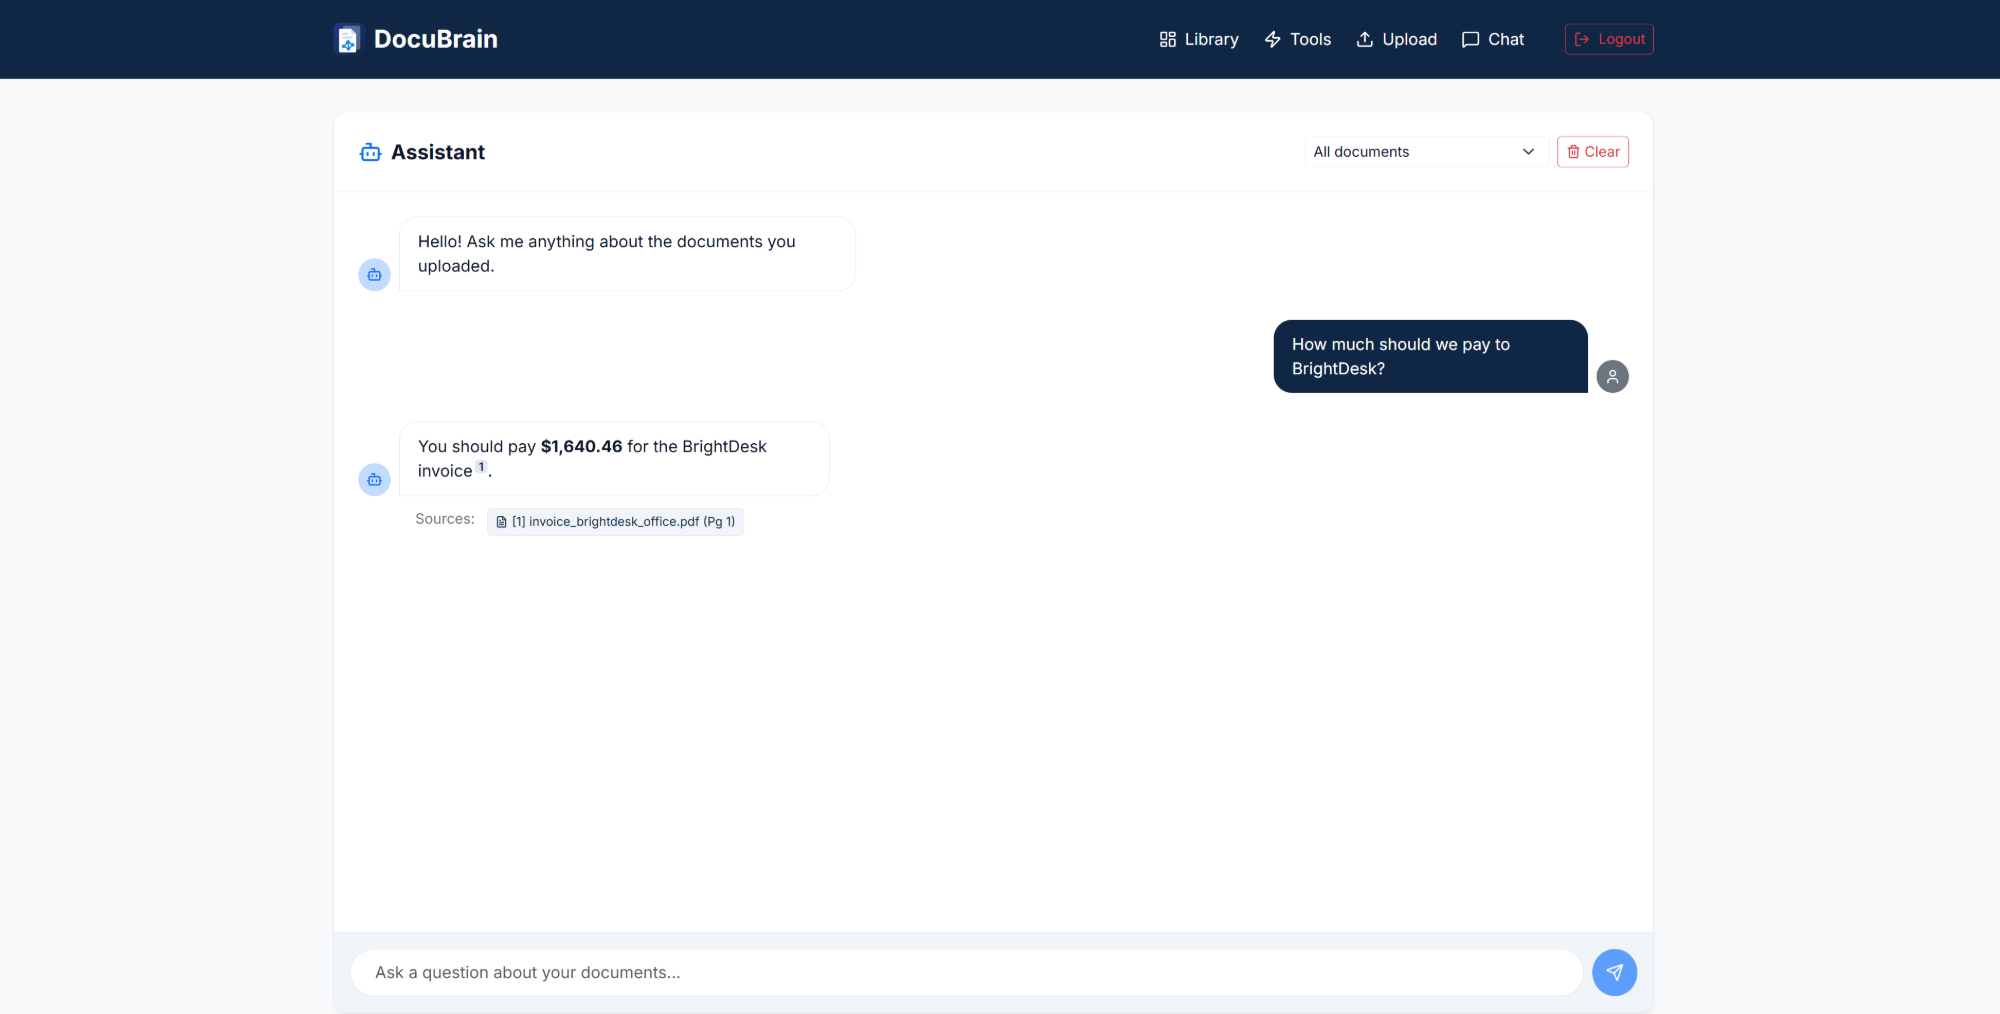
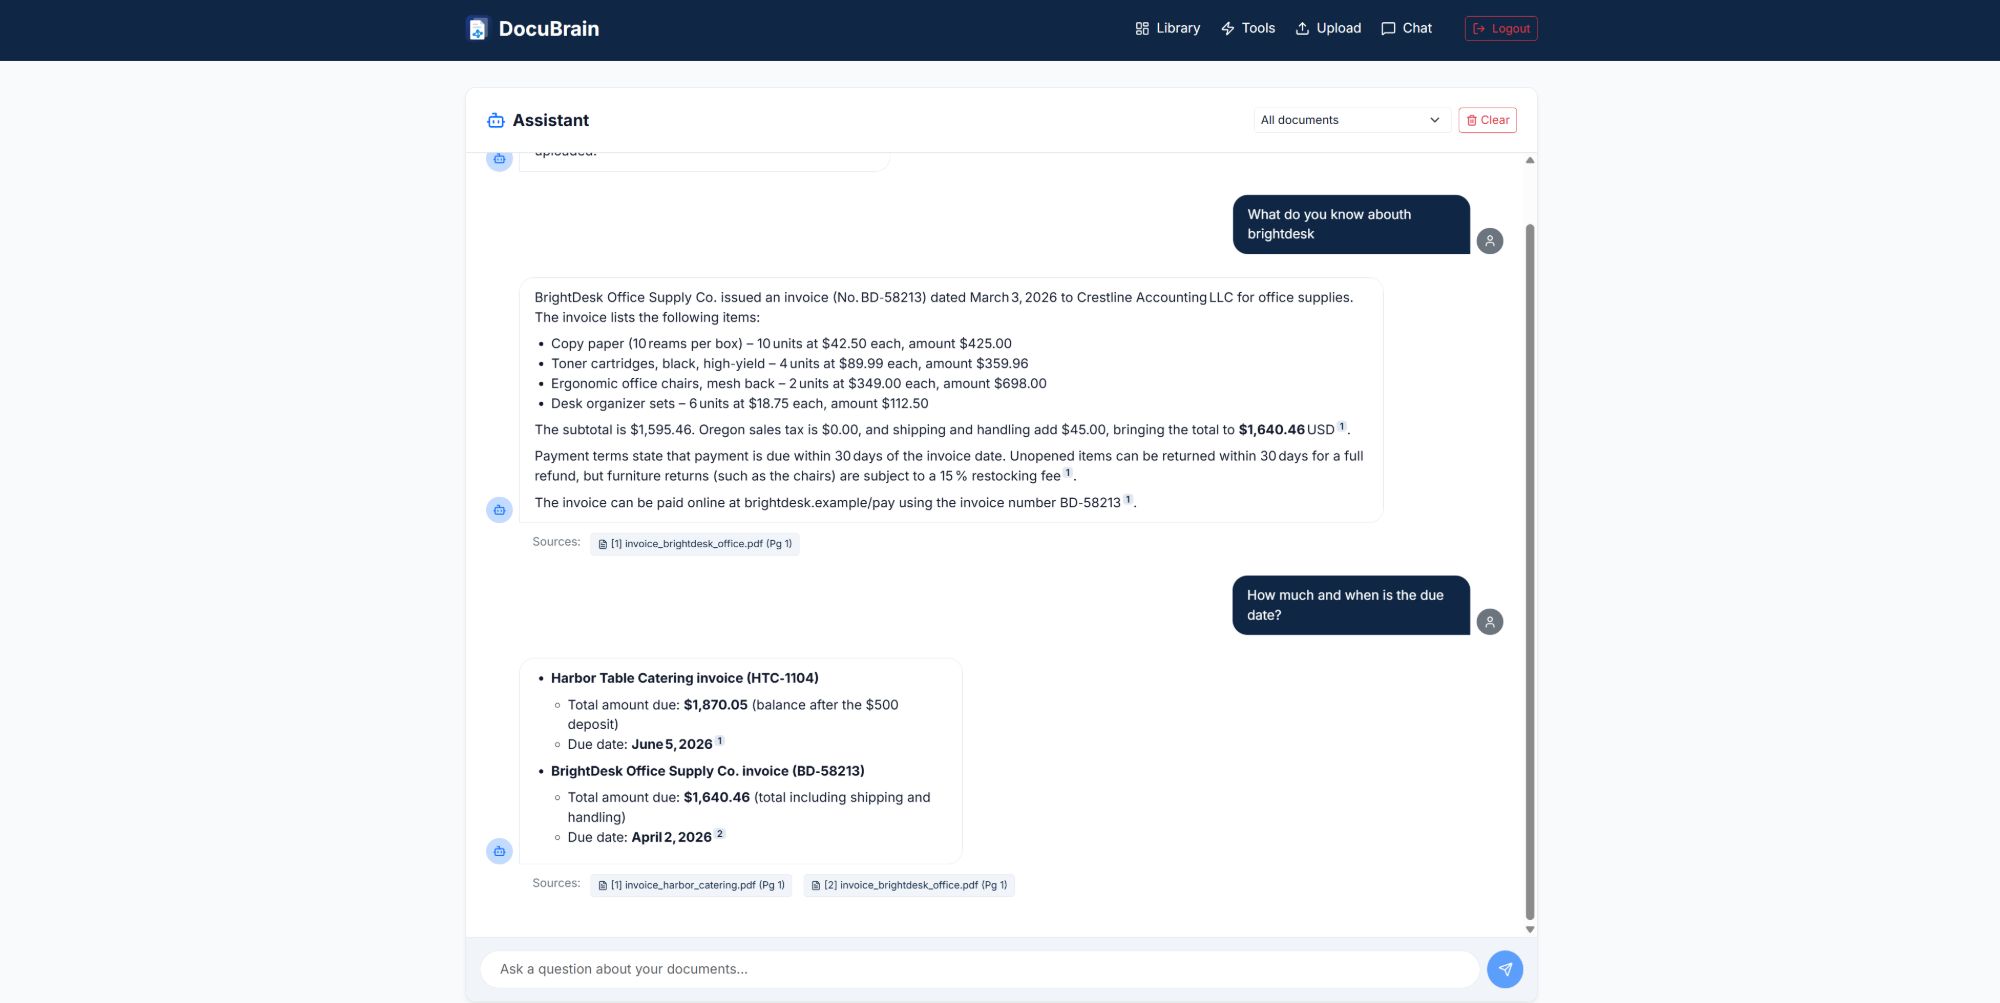
Add DocuBrain image and update LinkedIn link

diff --git a/index.html b/index.html
@@ -3,11 +3,11 @@
 
 <head>
     <meta charset="UTF-8">
-    <title>Bojan Spasovski | AI Software Engineer</title>
-    <meta name="description" content="Portfolio of Bojan Spasovski, AI Software Engineer building full-stack web applications with AI agents, RAG and LLM-powered features.">
+    <title>Bojan Spasovski | Full-Stack &amp; AI Engineer</title>
+    <meta name="description" content="Portfolio of Bojan Spasovski, Full-Stack &amp; AI Engineer building web applications with AI agents, RAG and LLM-powered features.">
     <meta property="og:type" content="website">
-    <meta property="og:title" content="Bojan Spasovski | AI Software Engineer">
-    <meta property="og:description" content="Portfolio of Bojan Spasovski, AI Software Engineer building full-stack web applications with AI agents, RAG and LLM-powered features.">
+    <meta property="og:title" content="Bojan Spasovski | Full-Stack &amp; AI Engineer">
+    <meta property="og:description" content="Portfolio of Bojan Spasovski, Full-Stack &amp; AI Engineer building web applications with AI agents, RAG and LLM-powered features.">
     <meta property="og:url" content="https://spasovskibojan.github.io/Portfolio/">
     <meta property="og:image" content="https://spasovskibojan.github.io/Portfolio/images/all/Profilna.jpeg">
     <meta name="twitter:card" content="summary">
@@ -47,7 +47,7 @@
         <div class="main-left">
             <img src="images/all/Profilna.jpeg" alt="Profile" width="100%">
             <p>Bojan Spasovski</p>
-            <p>AI Software Engineer</p>
+            <p>Full-Stack &amp; AI Engineer</p>
             <p><a href="https://finki.ukim.mk/mk" target="_blank"><abbr title="FINKI">Faculty of Computer Science and
                         Engineering</abbr></a></p>
             <div class="social-icons">
@@ -66,8 +66,8 @@
                 <p>Final-year Software Engineering and Information Systems student at FINKI. I build full-stack
                     web applications with AI built in: AI agents and LLM-powered features,
                     together with the backend, frontend and deployment that make them usable products. I work
-                    mostly with Python, FastAPI, Django, React and Docker. Open to remote AI
-                    engineering roles.</p>
+                    mostly with Python, FastAPI, Django, React and Docker. Open to full-stack and AI
+                    engineering roles, remote, hybrid or on-site in Skopje.</p>
             </div>
             <section class="main-right-bottom">
                 <div class="interests">

diff --git a/work.html b/work.html
@@ -3,10 +3,10 @@
 
 <head>
     <meta charset="UTF-8">
-    <title>Projects | Bojan Spasovski, AI Software Engineer</title>
+    <title>Projects | Bojan Spasovski, Full-Stack &amp; AI Engineer</title>
     <meta name="description" content="Projects by Bojan Spasovski: RAG systems, AI agents and full-stack web applications built with Python, FastAPI, Django and React.">
     <meta property="og:type" content="website">
-    <meta property="og:title" content="Projects | Bojan Spasovski, AI Software Engineer">
+    <meta property="og:title" content="Projects | Bojan Spasovski, Full-Stack &amp; AI Engineer">
     <meta property="og:description" content="Projects by Bojan Spasovski: RAG systems, AI agents and full-stack web applications built with Python, FastAPI, Django and React.">
     <meta property="og:url" content="https://spasovskibojan.github.io/Portfolio/work.html">
     <meta property="og:image" content="https://spasovskibojan.github.io/Portfolio/images/all/Profilna.jpeg">
@@ -84,7 +84,7 @@
                     <div class="quiz-text">
                         <h3>Smart Routing App</h3>
                         <p>Full-stack route optimization platform using <strong>React</strong> and
-                            <strong>Django</strong> with Travelling Salesman Algorithm implementation.
+                            <strong>Django</strong> that finds the best order of stops through the OpenRouteService optimization API.
                             Features interactive OpenStreetMap interface, multi-modal transportation (car, bicycle,
                             walking), JWT authentication,
                             and turn-by-turn navigation. Deployed on Render with PostgreSQL database.

diff --git a/biography.html b/biography.html
@@ -3,11 +3,11 @@
 
 <head>
     <meta charset="UTF-8">
-    <title>About | Bojan Spasovski, AI Software Engineer</title>
-    <meta name="description" content="Background, education and experience of Bojan Spasovski, AI Software Engineer and final-year FINKI student.">
+    <title>About | Bojan Spasovski, Full-Stack &amp; AI Engineer</title>
+    <meta name="description" content="Background, education and experience of Bojan Spasovski, Full-Stack &amp; AI Engineer and final-year FINKI student.">
     <meta property="og:type" content="website">
-    <meta property="og:title" content="About | Bojan Spasovski, AI Software Engineer">
-    <meta property="og:description" content="Background, education and experience of Bojan Spasovski, AI Software Engineer and final-year FINKI student.">
+    <meta property="og:title" content="About | Bojan Spasovski, Full-Stack &amp; AI Engineer">
+    <meta property="og:description" content="Background, education and experience of Bojan Spasovski, Full-Stack &amp; AI Engineer and final-year FINKI student.">
     <meta property="og:url" content="https://spasovskibojan.github.io/Portfolio/biography.html">
     <meta property="og:image" content="https://spasovskibojan.github.io/Portfolio/images/all/Profilna.jpeg">
     <meta name="twitter:card" content="summary">

diff --git a/contact.html b/contact.html
@@ -3,11 +3,11 @@
 
 <head>
     <meta charset="UTF-8">
-    <title>Contact | Bojan Spasovski, AI Software Engineer</title>
-    <meta name="description" content="Get in touch with Bojan Spasovski for remote AI engineering roles, projects and collaborations.">
+    <title>Contact | Bojan Spasovski, Full-Stack &amp; AI Engineer</title>
+    <meta name="description" content="Get in touch with Bojan Spasovski for full-stack and AI engineering roles, projects and collaborations.">
     <meta property="og:type" content="website">
-    <meta property="og:title" content="Contact | Bojan Spasovski, AI Software Engineer">
-    <meta property="og:description" content="Get in touch with Bojan Spasovski for remote AI engineering roles, projects and collaborations.">
+    <meta property="og:title" content="Contact | Bojan Spasovski, Full-Stack &amp; AI Engineer">
+    <meta property="og:description" content="Get in touch with Bojan Spasovski for full-stack and AI engineering roles, projects and collaborations.">
     <meta property="og:url" content="https://spasovskibojan.github.io/Portfolio/contact.html">
     <meta property="og:image" content="https://spasovskibojan.github.io/Portfolio/images/all/Profilna.jpeg">
     <meta name="twitter:card" content="summary">
